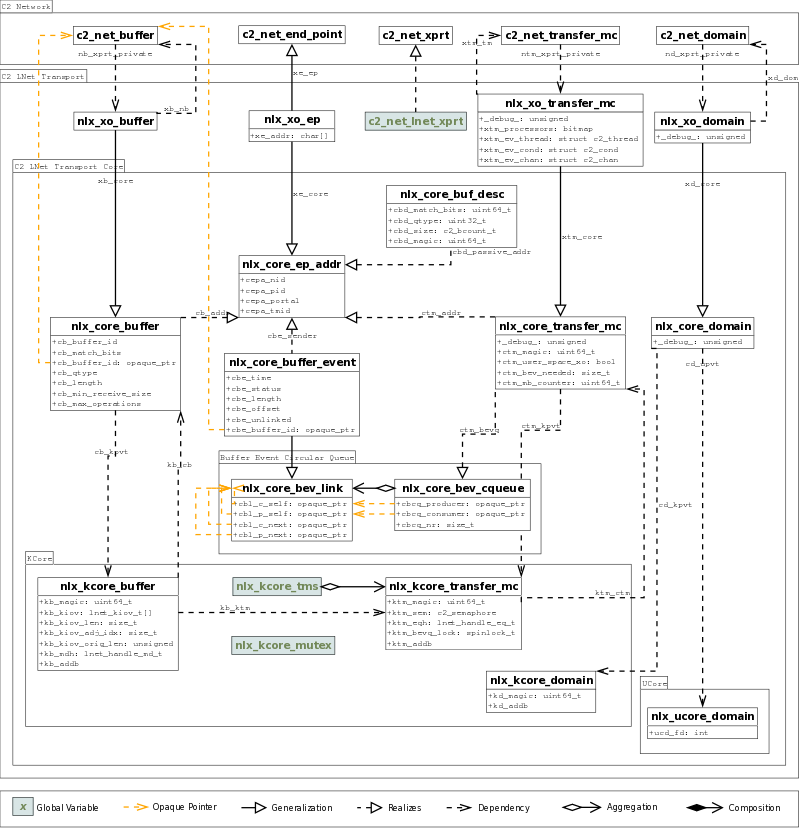
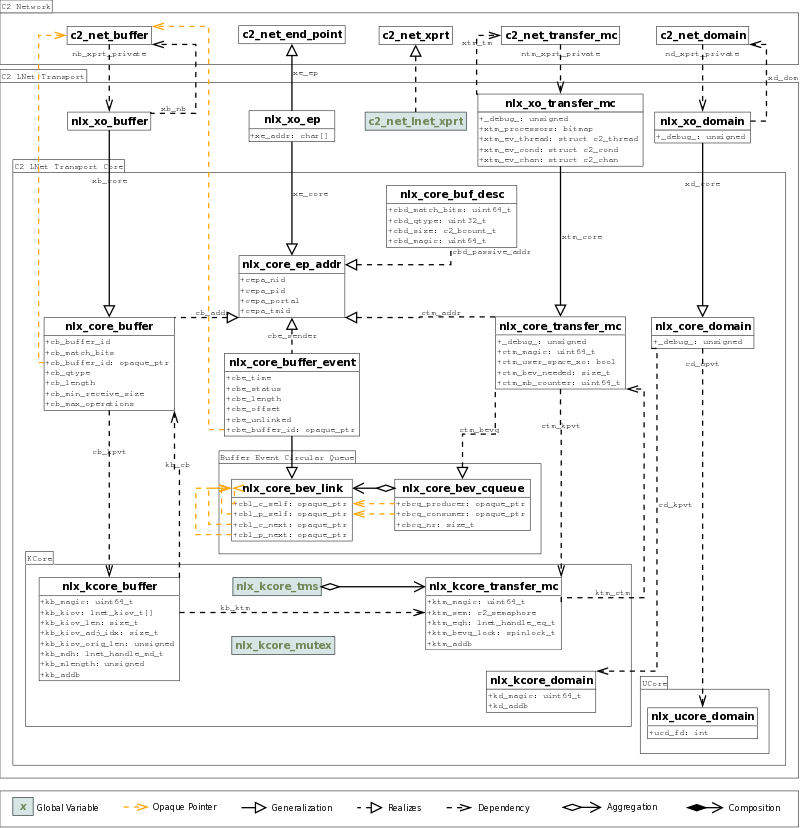
Save the mlength field of an out-of-order REPLY event to use when the SEND arrives later. Updated the unit test to demonstrate this.

diff --git a/net/lnet/linux_kernel/klnet_core.c b/net/lnet/linux_kernel/klnet_core.c
@@ -966,6 +966,7 @@ static void nlx_kcore_eq_cb(lnet_event_t *event)
 	struct nlx_core_buffer_event *bev;
 	c2_time_t now = c2_time_now();
 	bool is_unlinked = false;
+	unsigned mlength;
 	int status;
 
 	C2_PRE(event != NULL);
@@ -997,6 +998,7 @@ static void nlx_kcore_eq_cb(lnet_event_t *event)
 		is_unlinked = true;
 	}
 	status = event->status;
+	mlength = event->mlength;
 
 	if (event->type == LNET_EVENT_SEND &&
 	    cbp->cb_qtype == C2_NET_QT_ACTIVE_BULK_RECV) {
@@ -1014,6 +1016,8 @@ static void nlx_kcore_eq_cb(lnet_event_t *event)
 			lctm, event->md.threshold);
 		if (status == 0 && event->md.threshold != 0)
 			status = -ECANCELED;
+		else
+			mlength = kbp->kb_mlength; /* from earlier REPLY */
 	}
 	if (event->type == LNET_EVENT_UNLINK) /* see nlx_core_buf_del */
 		status = -ECANCELED;
@@ -1022,9 +1026,12 @@ static void nlx_kcore_eq_cb(lnet_event_t *event)
 		NLXDBGP(lctm, 1, "\t%p: eq_cb: %p %s !unlinked Q=%d\n", lctm,
 			event, nlx_kcore_lnet_event_type_to_string(event->type),
 			cbp->cb_qtype);
-		/* we may get REPLY before SEND, so ignore such events */
+		/* We may get REPLY before SEND, so ignore such events,
+		   but save the mlength for when the SEND arrives.
+		*/
 		if (cbp->cb_qtype == C2_NET_QT_ACTIVE_BULK_RECV) {
 			C2_ASSERT(event->md.threshold == 1);
+			kbp->kb_mlength = mlength;
 			return;
 		}
 		/* we don't expect anything other than receive messages */
@@ -1037,7 +1044,7 @@ static void nlx_kcore_eq_cb(lnet_event_t *event)
 	bev->cbe_buffer_id = cbp->cb_buffer_id;
 	bev->cbe_time      = now;
 	bev->cbe_status    = status;
-	bev->cbe_length    = event->mlength;
+	bev->cbe_length    = mlength;
 	bev->cbe_offset    = event->offset;
 	bev->cbe_unlinked  = is_unlinked;
 	if (event->hdr_data != 0) {

diff --git a/net/lnet/ut/linux_kernel/klnet_ut.c b/net/lnet/ut/linux_kernel/klnet_ut.c
@@ -1445,14 +1445,14 @@ static void ktest_bulk_body(struct ut_data *td)
 	c2_clink_add(&TM1->ntm_chan, &td->tmwait1);
 	C2_UT_ASSERT(bevs_left-- > 0);
 	ut_ktest_bulk_reply_event(lcbuf1, UT_BULK_SIZE, 0, 0, 1);
-	ut_ktest_bulk_send_event(lcbuf1, UT_BULK_SIZE, 0, 1, 0);
+	ut_ktest_bulk_send_event(lcbuf1, 0, 0, 1, 0); /* size is wrong */
 	c2_chan_wait(&td->tmwait1);
 	c2_clink_del(&td->tmwait1);
 	C2_UT_ASSERT(cb_called1 == 1);
 	C2_UT_ASSERT(cb_nb1 == nb1);
 	C2_UT_ASSERT(cb_qt1 == C2_NET_QT_ACTIVE_BULK_RECV);
 	C2_UT_ASSERT(cb_status1 == 0);
-	C2_UT_ASSERT(cb_length1 == UT_BULK_SIZE);
+	C2_UT_ASSERT(cb_length1 == UT_BULK_SIZE); /* size must match REPLY */
 	C2_UT_ASSERT(cb_offset1 == 0);
 	C2_UT_ASSERT(!(nb1->nb_flags & C2_NET_BUF_QUEUED));
 

diff --git a/net/lnet/linux_kernel/klnet_core.h b/net/lnet/linux_kernel/klnet_core.h
@@ -122,6 +122,11 @@ struct nlx_kcore_buffer {
 	/** MD handle */
 	lnet_handle_md_t              kb_mdh;
 
+	/** The saved mlength value in the case of an out-of-order
+	    REPLY/SEND event sequence.
+	*/
+	unsigned                      kb_mlength;
+
 	/** ADDB context for events related to this buffer */
 	struct c2_addb_ctx            kb_addb;
 };
